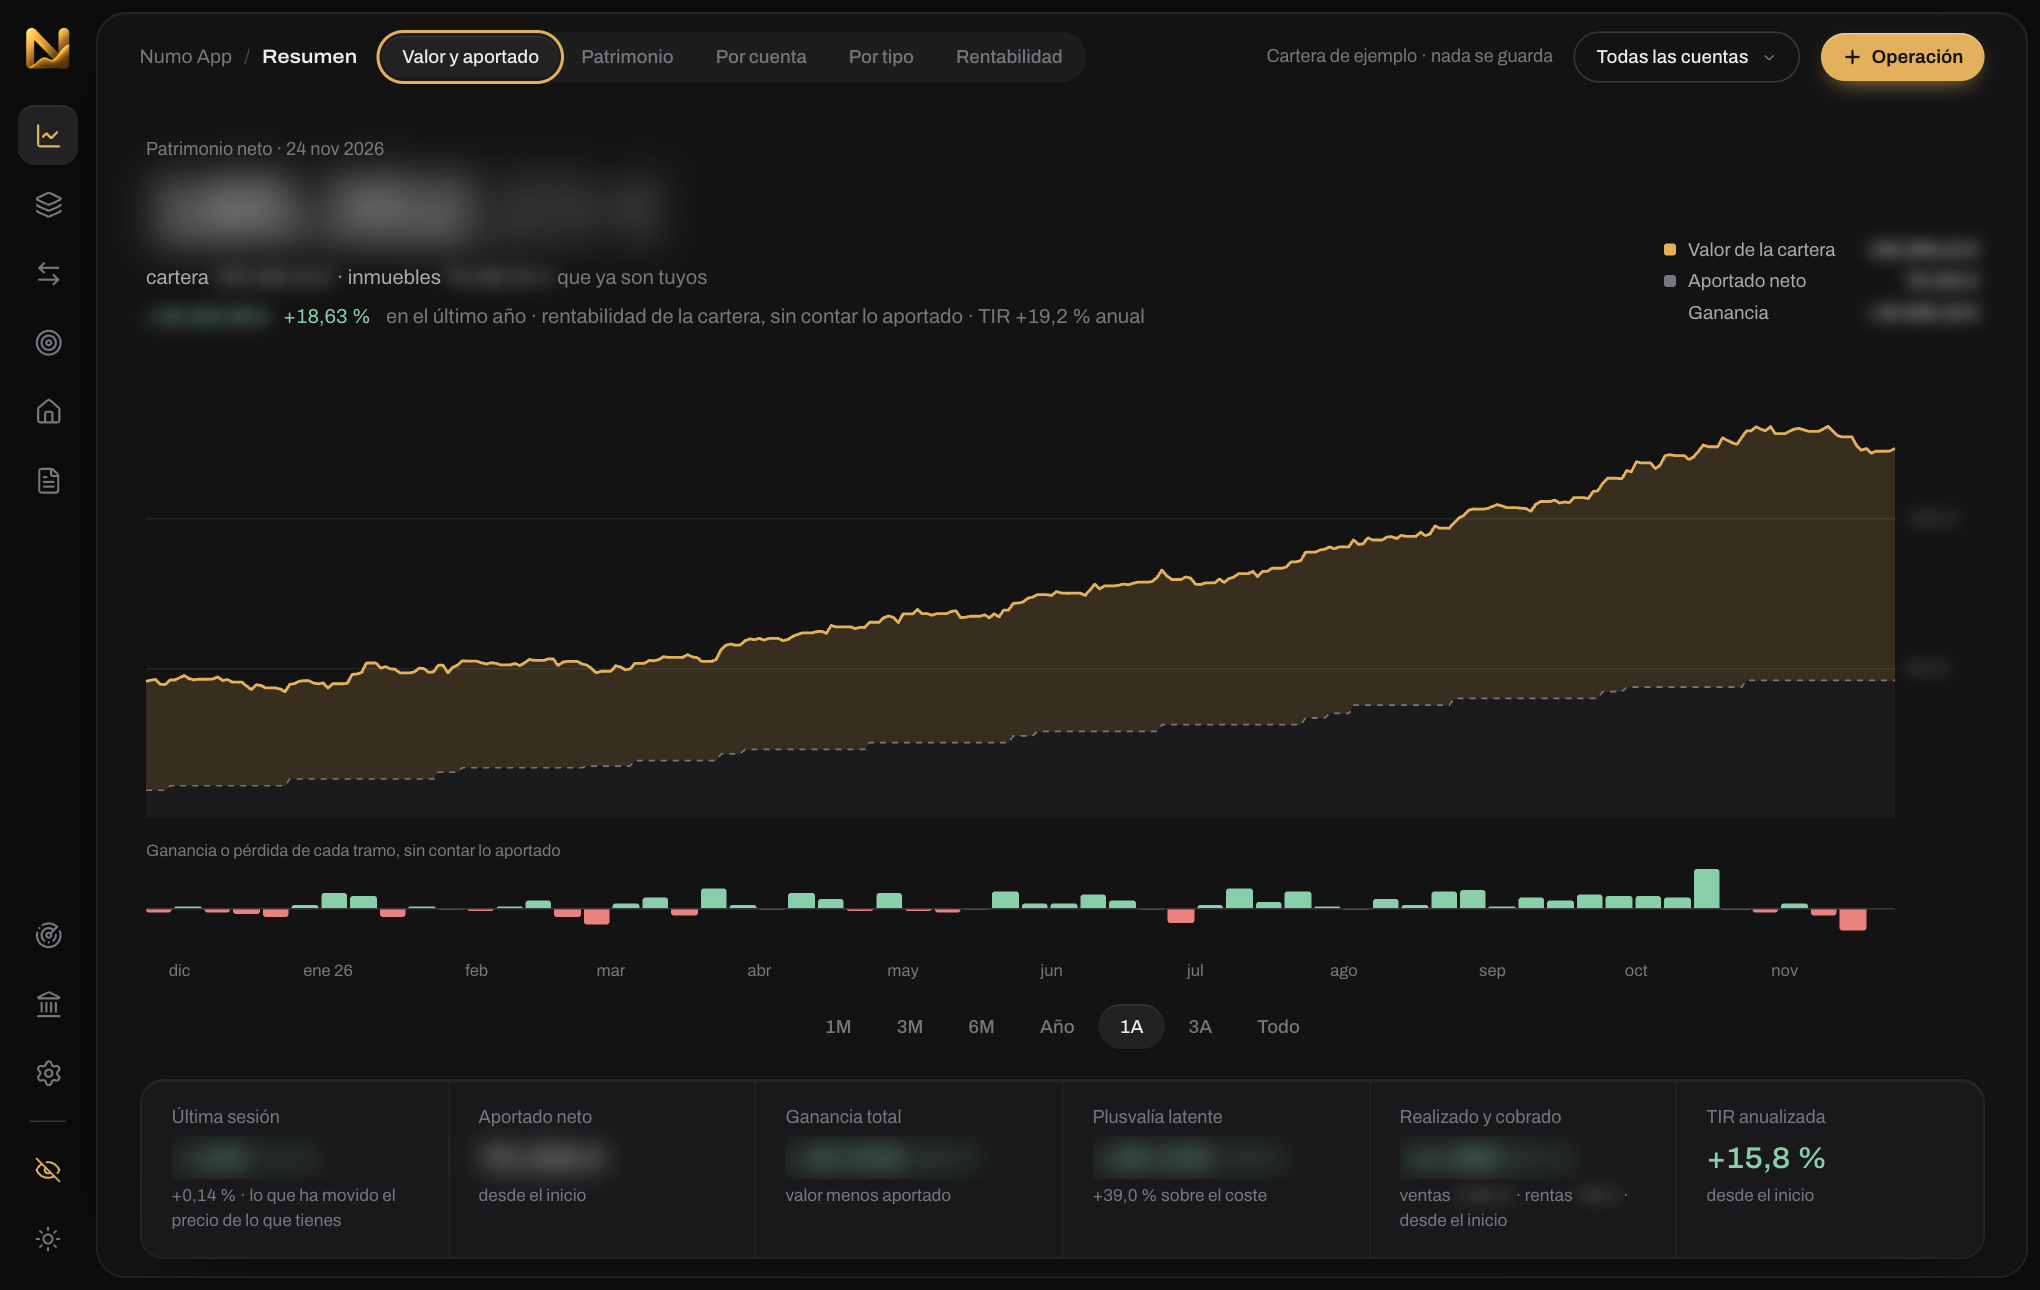
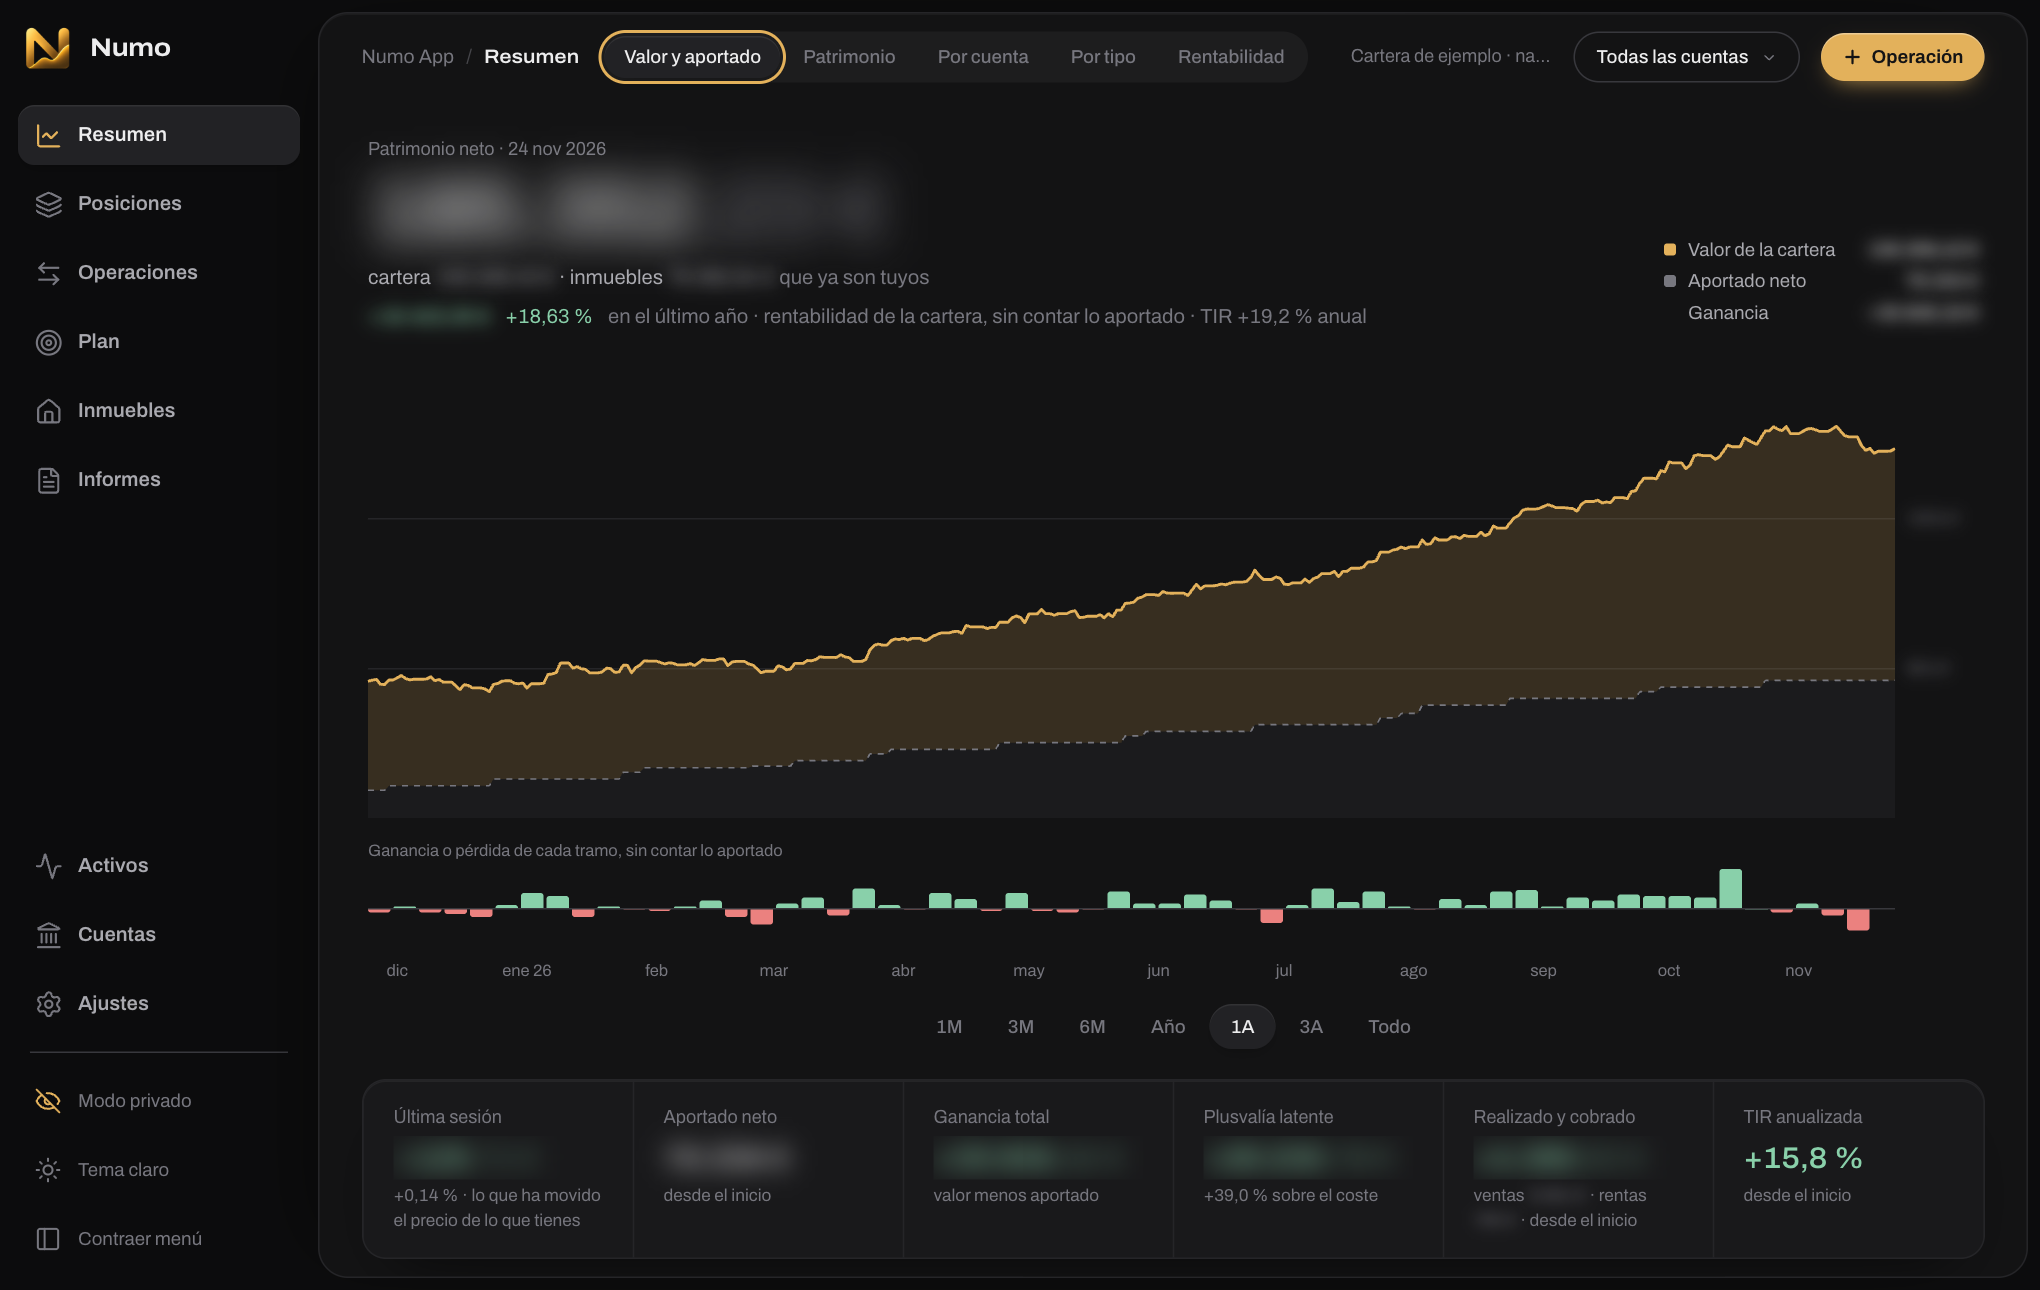
Menú lateral plegable, con rótulos
- Desplegado enseña el nombre de cada sección y de las acciones del pie;
  «Contraer menú» lo deja en la tira de iconos de antes. Se recuerda.
- Los iconos no se mueven al plegar: solo cambia el ancho, la fila activa pasa
  de píldora a cuadrado y los rótulos se desvanecen deslizándose.
- La cabecera se aprieta según el ancho del panel (no de la ventana): con poco
  sitio se va el nombre de la app y «Operación» se queda en el «+».
- Capturas del README rehechas.

diff --git a/src/App.tsx b/src/App.tsx
@@ -1,4 +1,4 @@
-import { ArrowLeftRight, Check, ChevronDown, CircleArrowUp, CloudOff, Eye, EyeOff, FileText, House, Landmark, Layers, LineChart, Moon, Plus, Radar, RefreshCw, Settings, Sun, Target, X } from "lucide-react";
+import { Activity, ArrowLeftRight, Check, ChevronDown, CircleArrowUp, CloudOff, Eye, EyeOff, FileText, House, Landmark, Layers, LineChart, Moon, PanelLeft, Plus, RefreshCw, Settings, Sun, Target, X } from "lucide-react";
 import { useEffect, useRef, useState, type ReactNode } from "react";
 import { Link, Route, Router, Switch, useLocation } from "wouter";
 import { useHashLocation } from "wouter/use-hash-location";
@@ -31,7 +31,7 @@ const NAV_MAIN: Nav[] = [
   { href: "/informes", label: "Informes", icon: FileText, scoped: true },
 ];
 const NAV_SUB: Nav[] = [
-  { href: "/activos", label: "Activos", icon: Radar },
+  { href: "/activos", label: "Activos", icon: Activity },
   { href: "/cuentas", label: "Cuentas", icon: Landmark },
   { href: "/ajustes", label: "Ajustes", icon: Settings },
 ];
@@ -39,23 +39,57 @@ const NAV_SUB: Nav[] = [
 const isMac = /Mac/i.test(navigator.platform);
 const matches = (n: Nav, loc: string) => (n.href === "/" ? loc === "/" : loc.startsWith(n.href) || (n.href === "/posiciones" && loc.startsWith("/activo/")));
 
-function RailLink({ nav, alerts = 0 }: { nav: Nav; alerts?: number }) {
+// El menú lateral se puede contraer a una tira de iconos. El icono de cada fila
+// ocupa siempre la misma casilla de 40 px, en el mismo sitio; lo único que cambia
+// es el ancho del menú, que al abrirse deja ver los rótulos. Así nada salta: la
+// fila activa pasa sola de cuadrado a píldora y los rótulos aparecen deslizándose.
+const MENU_KEY = "numo.menu";
+const MENU_EASE = "cubic-bezier(.2,.8,.2,1)";
+
+function useMenu(): [boolean, () => void] {
+  const [open, setOpen] = useState(() => localStorage.getItem(MENU_KEY) !== "closed");
+  const toggle = () => {
+    localStorage.setItem(MENU_KEY, open ? "closed" : "open");
+    setOpen(!open);
+  };
+  return [open, toggle];
+}
+
+/** Clases de una fila del menú. `quiet`: las acciones del pie, más discretas que las secciones. */
+const railItem = (active: boolean, quiet = false) =>
+  `group relative flex h-10 w-full flex-none items-center overflow-hidden rounded-[11px] text-left transition-[background,color,transform] duration-150 active:scale-[.97] ${
+    active ? "bg-raised text-ink shadow-[var(--shadow-active)]" : quiet ? "text-mute hover:text-ink" : "text-ink2 hover:text-ink"
+  }`;
+
+/** Icono (siempre visible) y rótulo (solo con el menú abierto) de una fila. */
+function RailBody({ open, label, quiet = false, accent = false, dot = false, children }: { open: boolean; label: string; quiet?: boolean; accent?: boolean; dot?: boolean; children: ReactNode }) {
+  return (
+    <>
+      <span className={`relative grid size-10 flex-none place-items-center transition-colors duration-150 ${accent ? "text-acc" : "text-mute group-hover:text-ink"}`}>
+        {children}
+        {dot && <span className="absolute top-2 right-2 size-1.5 rounded-full bg-acc" />}
+      </span>
+      <span
+        aria-hidden={!open}
+        className={`truncate pr-3 whitespace-nowrap transition-[opacity,transform] duration-300 ${quiet ? "text-[12.5px]" : "text-[13.5px] font-semibold"} ${open ? "delay-75" : "-translate-x-1.5 opacity-0"}`}
+        style={{ transitionTimingFunction: MENU_EASE }}
+      >
+        {label}
+      </span>
+    </>
+  );
+}
+
+function RailLink({ nav, open, alerts = 0 }: { nav: Nav; open: boolean; alerts?: number }) {
   const [loc] = useLocation();
   const active = matches(nav, loc);
   const Icon = nav.icon;
   const label = alerts ? `${nav.label} · ${alerts === 1 ? "1 precio necesita" : `${alerts} precios necesitan`} atención` : nav.label;
   return (
-    <Link
-      href={nav.href}
-      title={label}
-      aria-label={label}
-      aria-current={active ? "page" : undefined}
-      className={`relative grid size-10 place-items-center rounded-[11px] transition-[background,color] duration-150 active:scale-[.94] ${
-        active ? "bg-raised text-acc shadow-[var(--shadow-active)]" : "text-mute hover:text-ink"
-      }`}
-    >
-      <Icon size={19} strokeWidth={1.8} />
-      {alerts > 0 && <span className="absolute top-2 right-2 size-1.5 rounded-full bg-acc" />}
+    <Link href={nav.href} title={open && !alerts ? undefined : label} aria-label={label} aria-current={active ? "page" : undefined} className={railItem(active)}>
+      <RailBody open={open} label={nav.label} accent={active} dot={alerts > 0}>
+        <Icon size={19} strokeWidth={1.8} />
+      </RailBody>
     </Link>
   );
 }
@@ -163,7 +197,7 @@ function AccountFilter() {
   );
 }
 
-function SyncButton() {
+function SyncButton({ open }: { open: boolean }) {
   const syncing = useApp((s) => s.syncing);
   const issues = useApp((s) => s.issues);
   const lastSync = useApp((s) => s.loaded.state.lastSync);
@@ -171,34 +205,24 @@ function SyncButton() {
   if (example) return null;
   const title = syncing ? "Actualizando precios…" : `Precios actualizados ${ago(lastSync)}${issues.length ? ` · ${issues.length} avisos (ver Activos)` : ""}. Pulsa para actualizar ahora.`;
   return (
-    <button
-      type="button"
-      title={title}
-      aria-label="Actualizar precios"
-      disabled={syncing}
-      onClick={() => void sync(true)}
-      className="relative grid size-10 place-items-center rounded-[11px] text-mute transition-colors hover:text-ink"
-    >
-      <RefreshCw size={17} strokeWidth={1.8} className={syncing ? "animate-spin" : ""} />
-      {issues.length > 0 && !syncing && <span className="absolute top-2 right-2 size-1.5 rounded-full bg-acc" />}
+    <button type="button" title={title} aria-label="Actualizar precios" disabled={syncing} onClick={() => void sync(true)} className={railItem(false, true)}>
+      <RailBody open={open} quiet label={syncing ? "Actualizando precios…" : lastSync ? `Precios de ${ago(lastSync)}` : "Sin precios todavía"} dot={issues.length > 0 && !syncing}>
+        <RefreshCw size={17} strokeWidth={1.8} className={syncing ? "animate-spin" : ""} />
+      </RailBody>
     </button>
   );
 }
 
 /** La sincronización entre equipos falla: se avisa en el menú, no solo en Ajustes. */
-function DevicesNotice() {
+function DevicesNotice({ open }: { open: boolean }) {
   const error = useApp((s) => s.devices.error);
   const [, go] = useLocation();
   if (!error) return null;
   return (
-    <button
-      type="button"
-      title={`La sincronización entre equipos falla: ${error}`}
-      aria-label="La sincronización entre equipos falla"
-      onClick={() => go("/ajustes")}
-      className="relative grid size-10 place-items-center rounded-[11px] text-acc transition-colors hover:bg-wash"
-    >
-      <CloudOff size={18} strokeWidth={1.8} />
+    <button type="button" title={`La sincronización entre equipos falla: ${error}`} aria-label="La sincronización entre equipos falla" onClick={() => go("/ajustes")} className={railItem(false, true)}>
+      <RailBody open={open} quiet accent label="Falla la sincronización">
+        <CloudOff size={18} strokeWidth={1.8} />
+      </RailBody>
     </button>
   );
 }
@@ -251,6 +275,8 @@ function Shell({ children }: { children: ReactNode }) {
   const dialog = useDialog();
   const [light, flipTheme] = useTheme();
   const hidden = usePrivate();
+  const [menu, toggleMenu] = useMenu();
+  const wideRail = backend.native && isMac;
   const { attention, fxLate } = useHealth();
   const here = [...NAV_MAIN, ...NAV_SUB].find((n) => matches(n, loc));
 
@@ -281,52 +307,63 @@ function Shell({ children }: { children: ReactNode }) {
 
   return (
     <div className="flex h-full bg-bg transition-colors duration-300">
-      {/* Rail: solo iconos. En macOS se ensancha y deja hueco arriba: los botones de la ventana
-          ocupan unos 70 px de ancho y no deben quedar sobre el panel. */}
-      <nav data-tauri-drag-region className={`flex flex-none flex-col items-center gap-1.5 pb-3.5 ${backend.native && isMac ? "w-[78px] pt-[46px]" : "w-16 pt-3.5"}`} aria-label="Secciones">
-        <div data-tauri-drag-region data-splash-logo className="-mt-1 mb-2.5 size-11" title="Numo App">
-          <Logo size={44} className="pointer-events-none" />
+      {/* Menú lateral: desplegado enseña los rótulos; contraído, solo los iconos. */}
+      <nav
+        data-tauri-drag-region
+        aria-label="Secciones"
+        // En macOS deja hueco arriba y a los lados: los botones de la ventana ocupan unos 70 px de ancho.
+        className={`flex flex-none flex-col gap-1.5 overflow-hidden pb-3.5 transition-[width] duration-[320ms] ${wideRail ? "px-[19px] pt-[46px]" : "px-3 pt-3.5"}`}
+        style={{ width: menu ? (wideRail ? 226 : 212) : wideRail ? 78 : 64, transitionTimingFunction: MENU_EASE }}
+      >
+        <div data-tauri-drag-region className="-mt-1 mb-2.5 -ml-0.5 flex h-11 flex-none items-center gap-1.5" title="Numo App">
+          <div data-splash-logo className="size-11 flex-none">
+            <Logo size={44} className="pointer-events-none" />
+          </div>
+          <span
+            aria-hidden={!menu}
+            className={`pointer-events-none text-[17px] font-bold tracking-[-0.01em] whitespace-nowrap transition-[opacity,transform] duration-300 ${menu ? "delay-75" : "-translate-x-1.5 opacity-0"}`}
+            style={{ fontStretch: "112%", transitionTimingFunction: MENU_EASE }}
+          >
+            Numo
+          </span>
         </div>
         {NAV_MAIN.map((n) => (
-          <RailLink key={n.href} nav={n} />
+          <RailLink key={n.href} nav={n} open={menu} />
         ))}
         <div data-tauri-drag-region className="flex-1 self-stretch" />
         {NAV_SUB.map((n) => (
-          <RailLink key={n.href} nav={n} alerts={n.href === "/activos" ? attention + fxLate : 0} />
+          <RailLink key={n.href} nav={n} open={menu} alerts={n.href === "/activos" ? attention + fxLate : 0} />
         ))}
-        <div className="my-1.5 h-px w-6 bg-line2" />
-        <DevicesNotice />
-        <SyncButton />
-        <button
-          type="button"
-          title={`${hidden ? "Mostrar los importes" : "Modo privado: emborronar los importes"} · atajo: P`}
-          aria-label="Modo privado"
-          aria-pressed={hidden}
-          onClick={togglePrivate}
-          className={`grid size-10 place-items-center rounded-[11px] transition-colors hover:text-ink ${hidden ? "text-acc" : "text-mute"}`}
-        >
-          {hidden ? <EyeOff size={18} strokeWidth={1.8} /> : <Eye size={18} strokeWidth={1.8} />}
+        <div className="mx-2 my-1.5 h-px flex-none bg-line2" />
+        <DevicesNotice open={menu} />
+        <SyncButton open={menu} />
+        <button type="button" title={`${hidden ? "Mostrar los importes" : "Modo privado: emborronar los importes"} · atajo: P`} aria-label="Modo privado" aria-pressed={hidden} onClick={togglePrivate} className={railItem(false, true)}>
+          <RailBody open={menu} quiet accent={hidden} label="Modo privado">
+            {hidden ? <EyeOff size={18} strokeWidth={1.8} /> : <Eye size={18} strokeWidth={1.8} />}
+          </RailBody>
         </button>
-        <button
-          type="button"
-          title={light ? "Cambiar a tema oscuro" : "Cambiar a tema claro"}
-          aria-label="Cambiar tema"
-          onClick={flipTheme}
-          className="grid size-10 place-items-center rounded-[11px] text-mute transition-colors hover:text-ink"
-        >
-          {light ? <Moon size={18} strokeWidth={1.8} /> : <Sun size={18} strokeWidth={1.8} />}
+        <button type="button" title={light ? "Cambiar a tema oscuro" : "Cambiar a tema claro"} aria-label="Cambiar tema" onClick={flipTheme} className={railItem(false, true)}>
+          <RailBody open={menu} quiet label={light ? "Tema oscuro" : "Tema claro"}>
+            {light ? <Moon size={18} strokeWidth={1.8} /> : <Sun size={18} strokeWidth={1.8} />}
+          </RailBody>
+        </button>
+        <button type="button" title={menu ? "Contraer el menú" : "Desplegar el menú"} aria-label={menu ? "Contraer el menú" : "Desplegar el menú"} aria-expanded={menu} onClick={toggleMenu} className={railItem(false, true)}>
+          <RailBody open={menu} quiet label="Contraer menú">
+            <PanelLeft size={18} strokeWidth={1.8} />
+          </RailBody>
         </button>
       </nav>
 
       <main
-        className="my-2 mr-2 flex min-w-0 flex-1 flex-col overflow-hidden rounded-[20px] border border-line bg-panel transition-colors duration-300"
+        // Es un contenedor: la cabecera se aprieta según el ancho del panel, que depende de la ventana y del menú.
+        className="@container my-2 mr-2 flex min-w-0 flex-1 flex-col overflow-hidden rounded-[20px] border border-line bg-panel transition-colors duration-300"
         style={{ boxShadow: "var(--panel-shadow)" }}
       >
-        <header data-tauri-drag-region className="flex items-center gap-3.5 px-7 py-3 whitespace-nowrap">
+        <header data-tauri-drag-region className="flex items-center gap-3.5 px-7 py-3 whitespace-nowrap @max-[920px]:gap-2 @max-[920px]:px-4">
           <div data-tauri-drag-region className="flex items-center gap-2 text-[13px] text-mute">
-            {/* En ventanas estrechas el nombre de la app cede su sitio a las pestañas. */}
-            <span className="max-[1180px]:hidden">Numo App</span>
-            <span className="opacity-50 max-[1180px]:hidden">/</span>
+            {/* Con poco sitio, el nombre de la app cede el suyo a las pestañas. */}
+            <span className="@max-[1100px]:hidden">Numo App</span>
+            <span className="opacity-50 @max-[1100px]:hidden">/</span>
             <span className="font-semibold text-ink" style={{ fontStretch: "110%" }}>
               {here?.label ?? "Numo App"}
             </span>
@@ -346,7 +383,7 @@ function Shell({ children }: { children: ReactNode }) {
           {hasAccounts && here?.scoped && <AccountFilter />}
           {hasAccounts && (
             <Btn variant="cta" onClick={() => openDialog({ kind: "tx" })} title="Atajo: N">
-              <Plus size={14} strokeWidth={2.6} /> Operación
+              <Plus size={14} strokeWidth={2.6} /> <span className="@max-[920px]:hidden">Operación</span>
             </Btn>
           )}
         </header>
